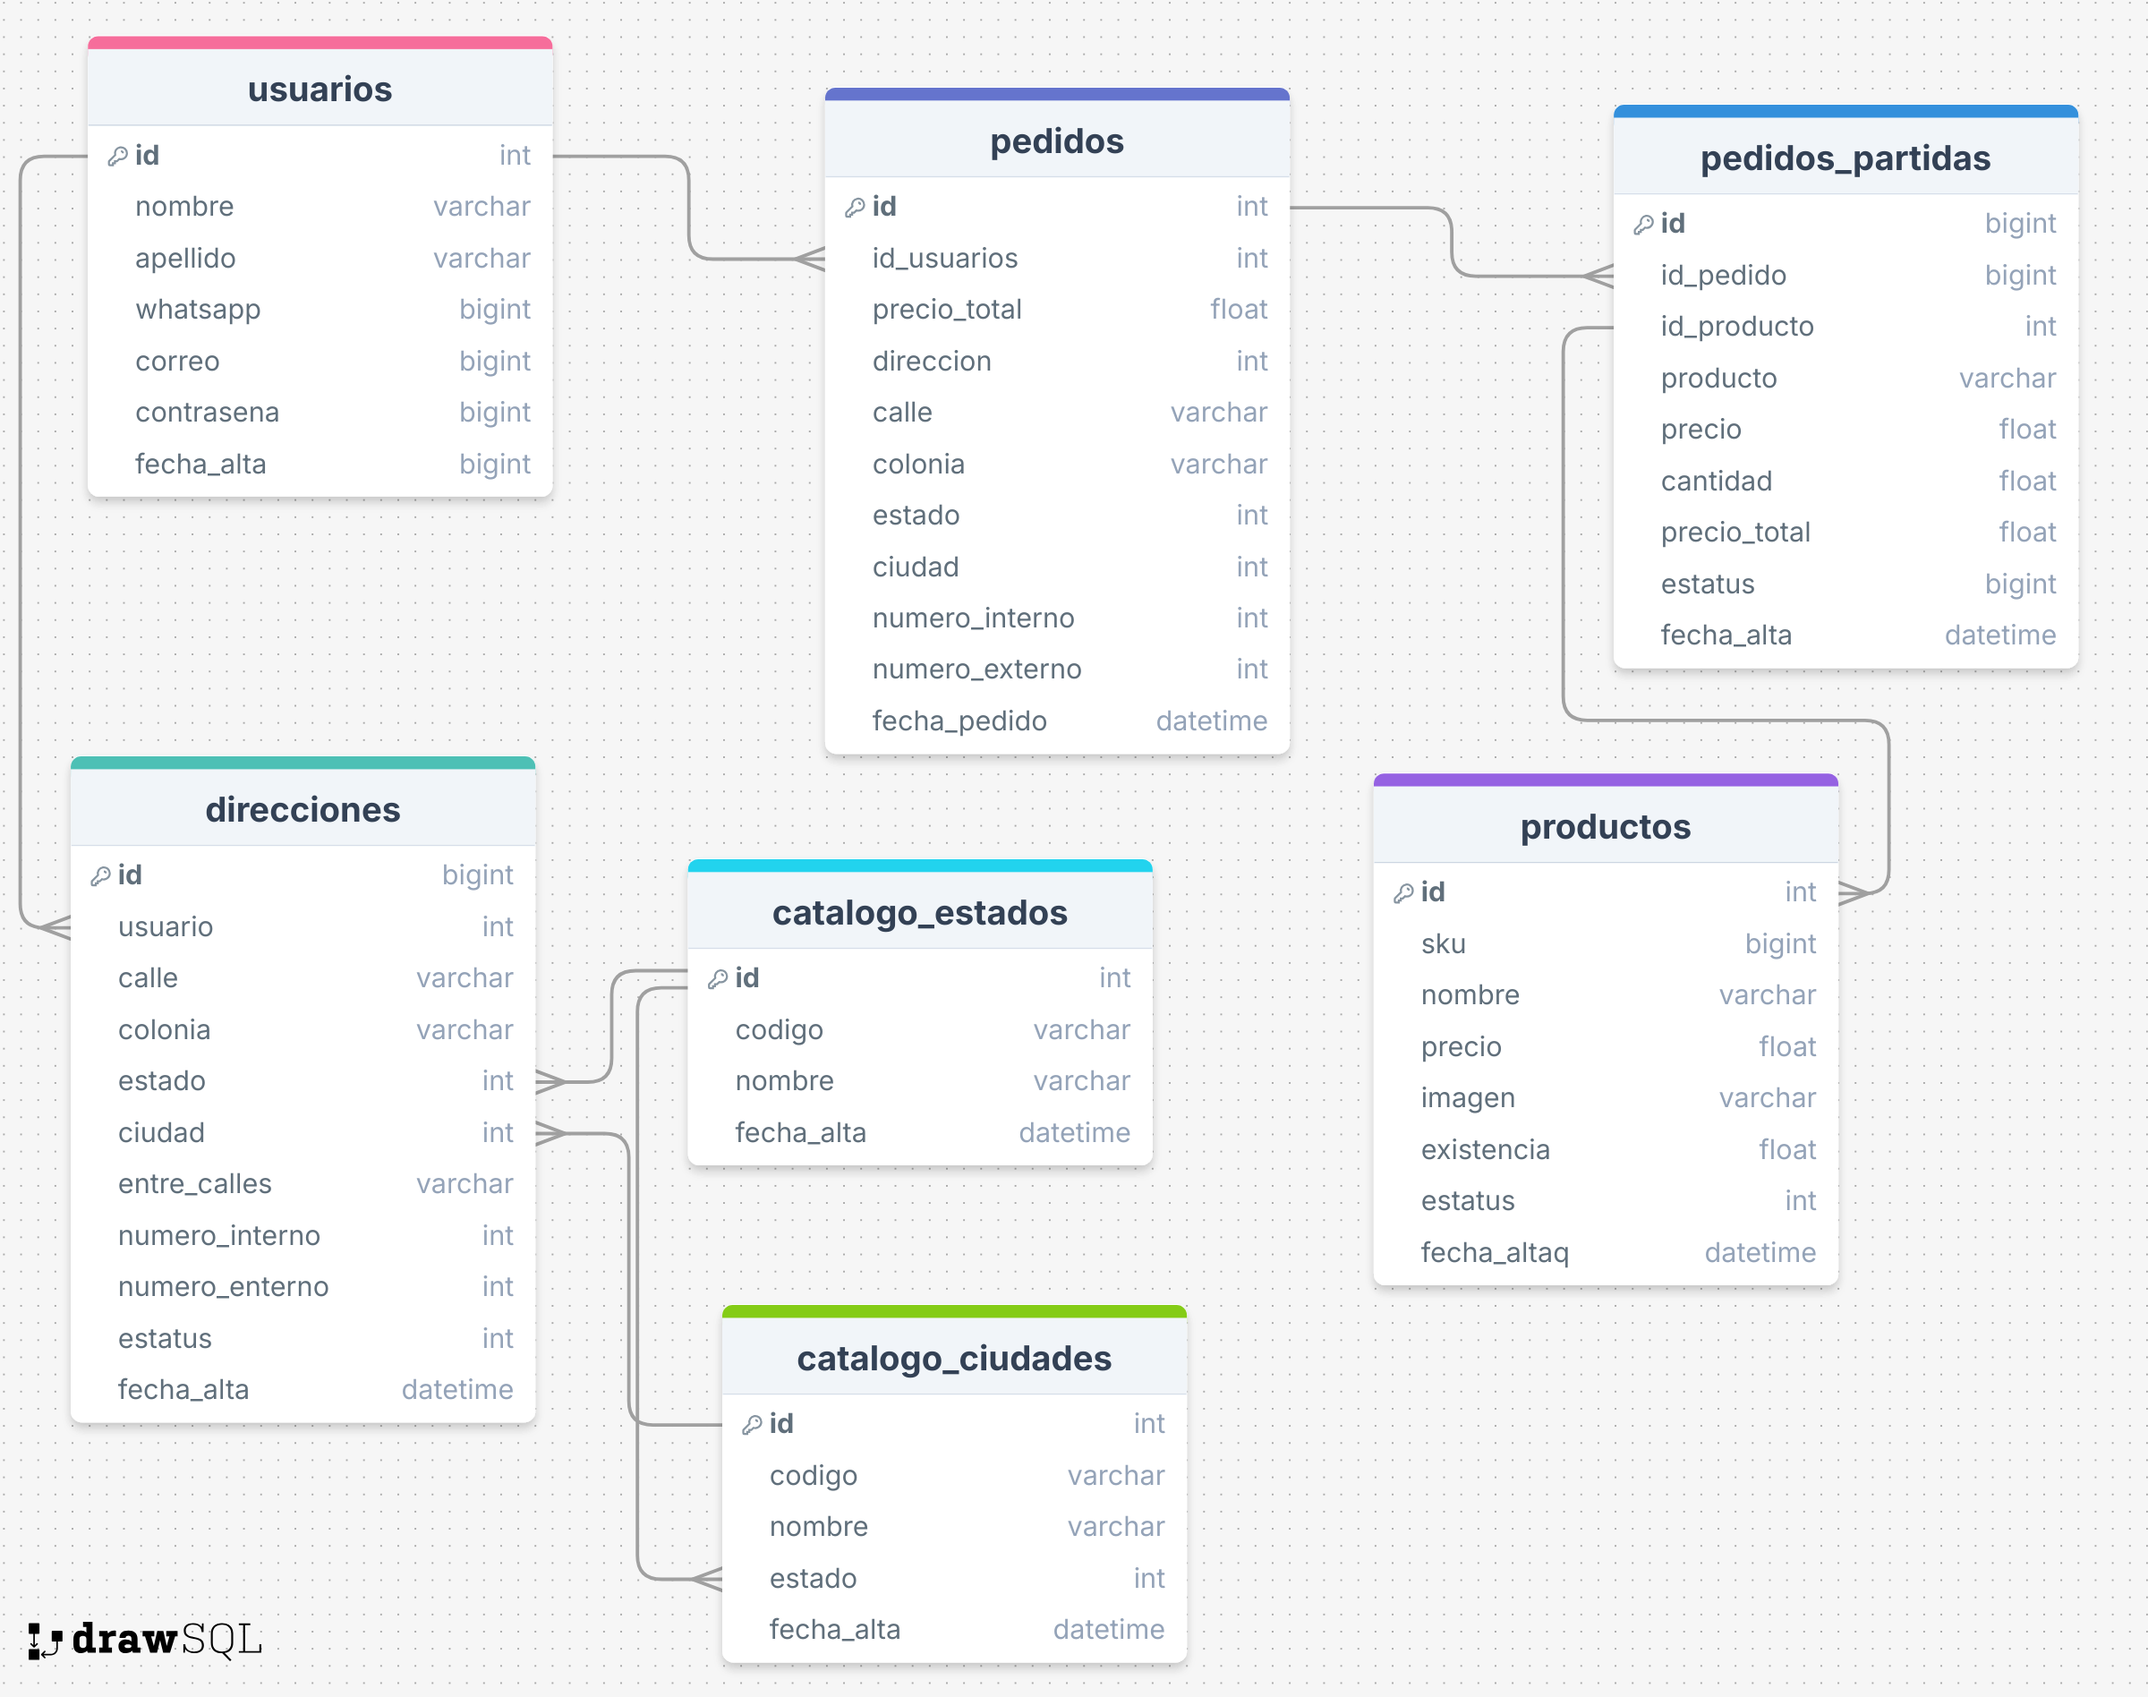
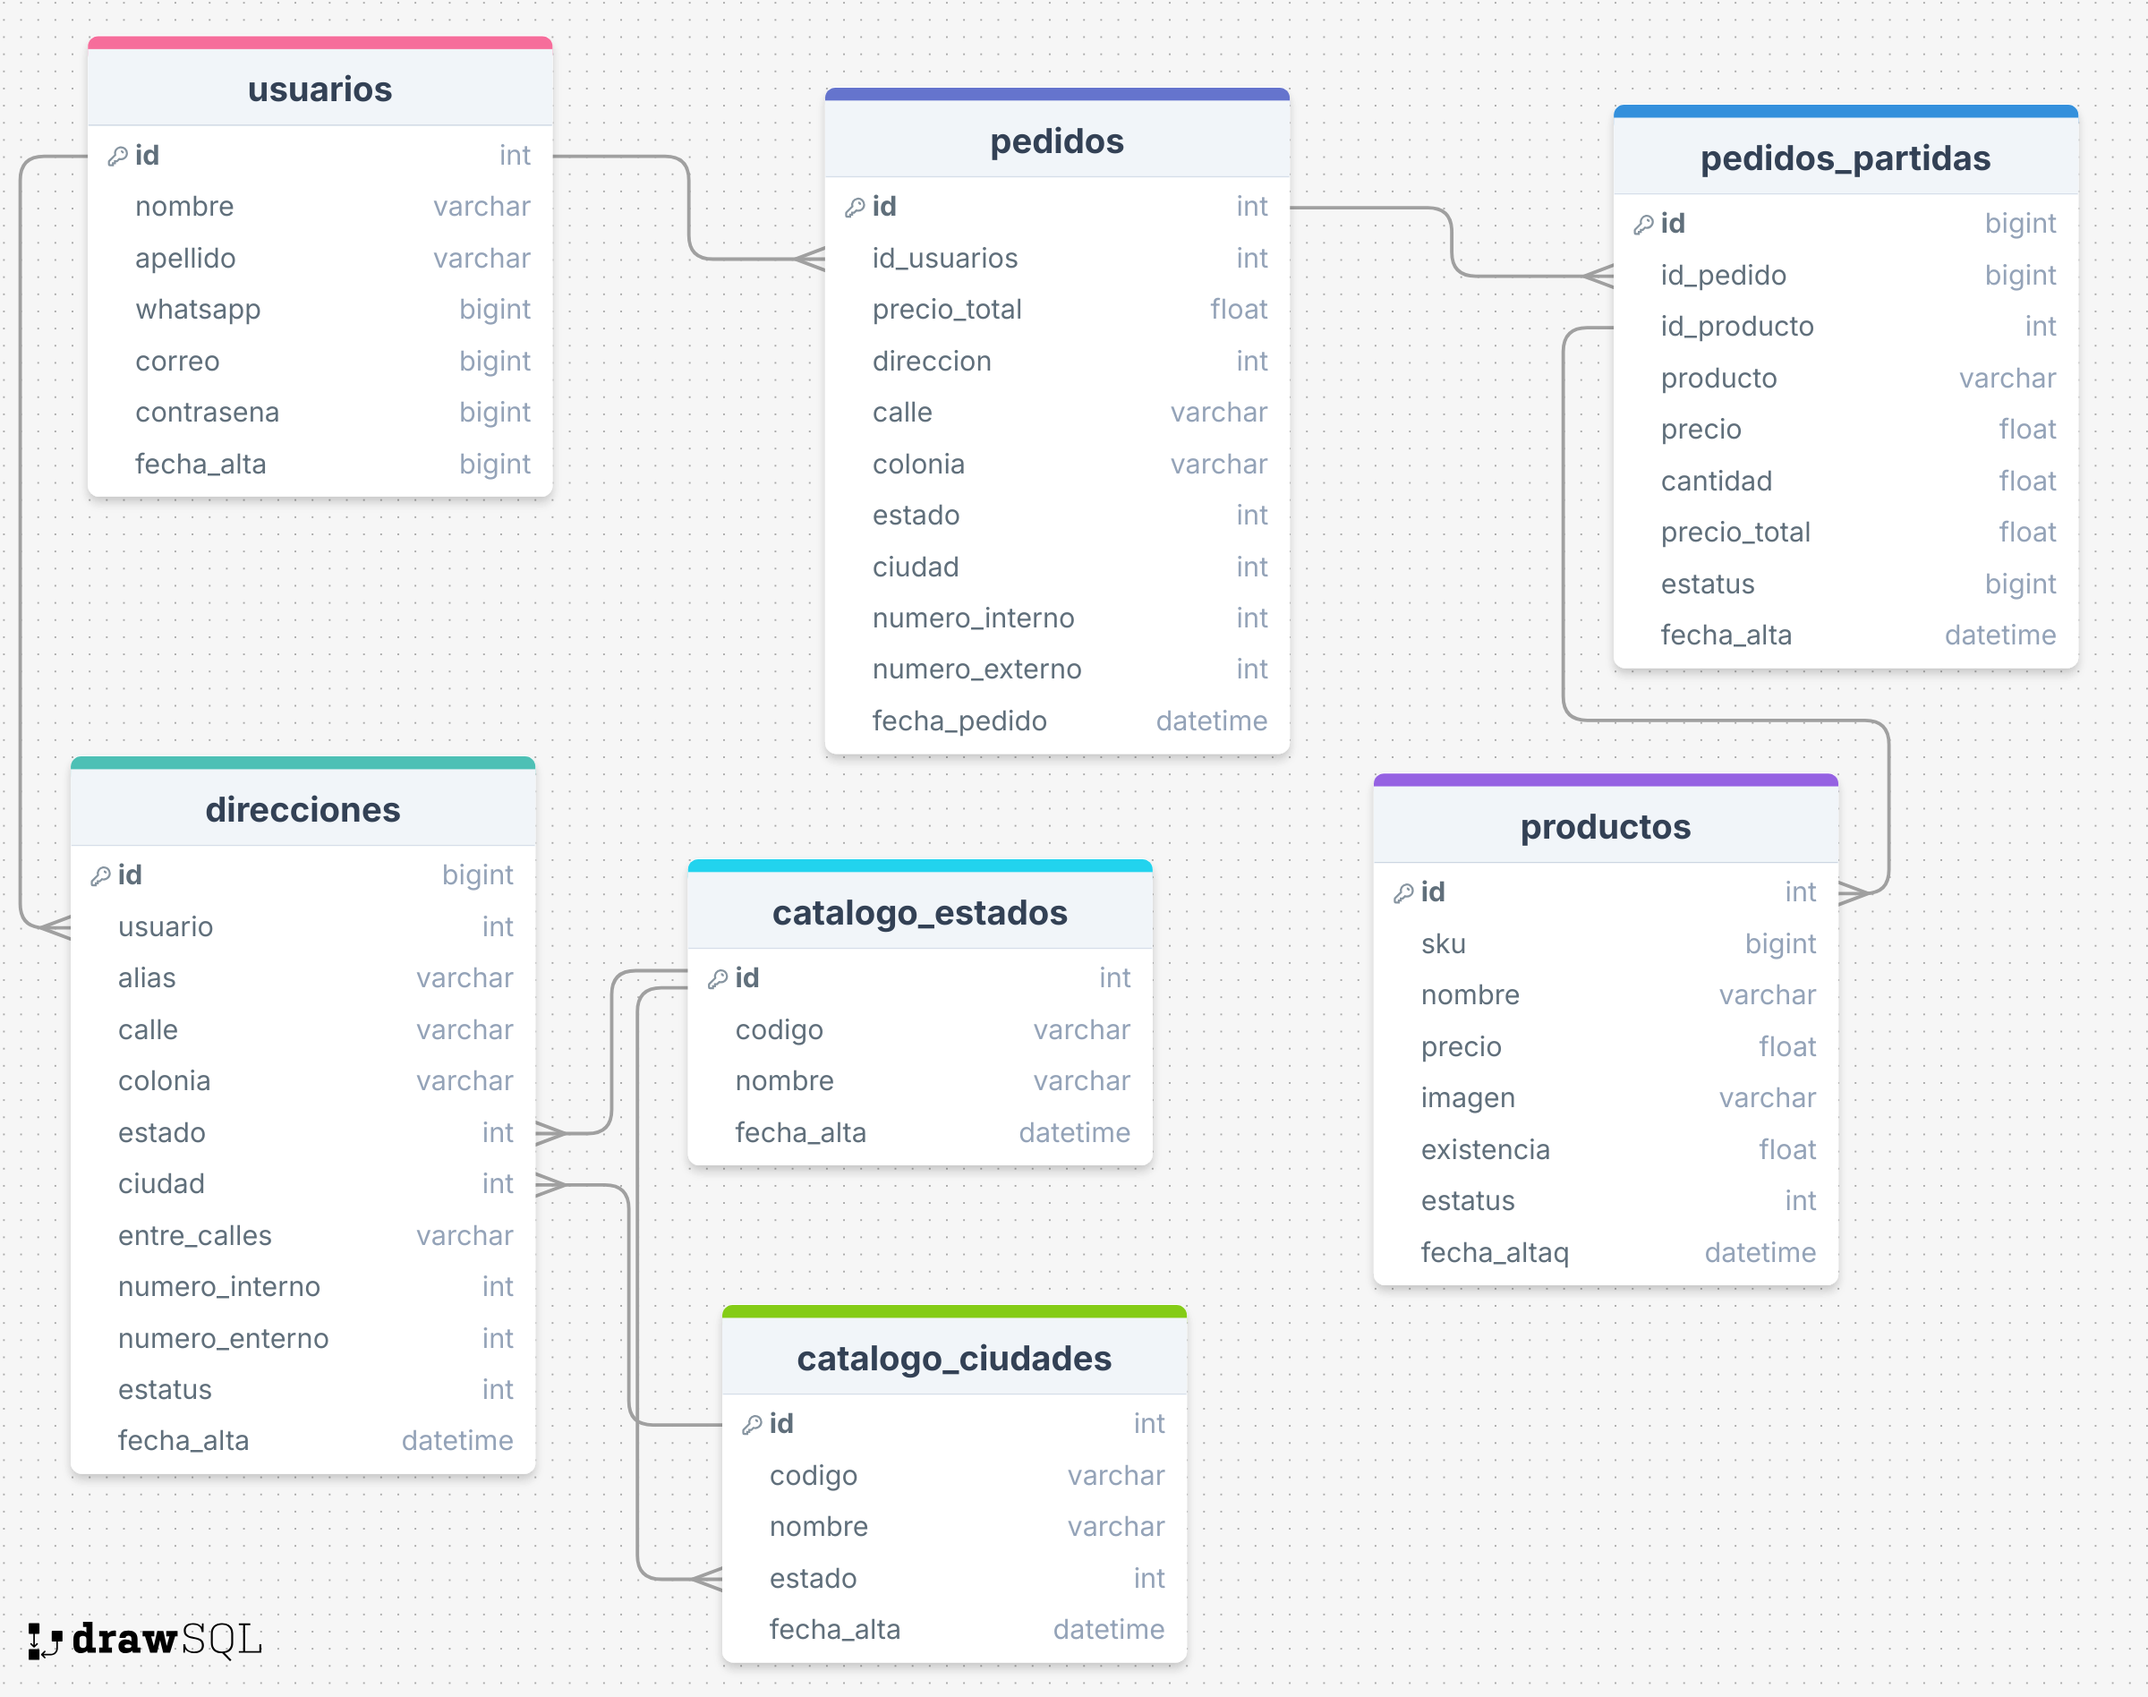
FIX[DOCUMENTOS]: cambios en el Readme y actualización del diagrama de base de datos

Changed region(s): [[0.0312, 0.5601, 0.25, 0.8713], [0.25, 0.6846, 0.2812, 0.7157], [0.25, 0.6224, 0.2812, 0.6535]]

diff --git a/README.md b/README.md
@@ -9,7 +9,7 @@
   * Css
 * Back
   * Deno
-  * MySql
+  * MySQL
   * Type Scrip
 
 ___
